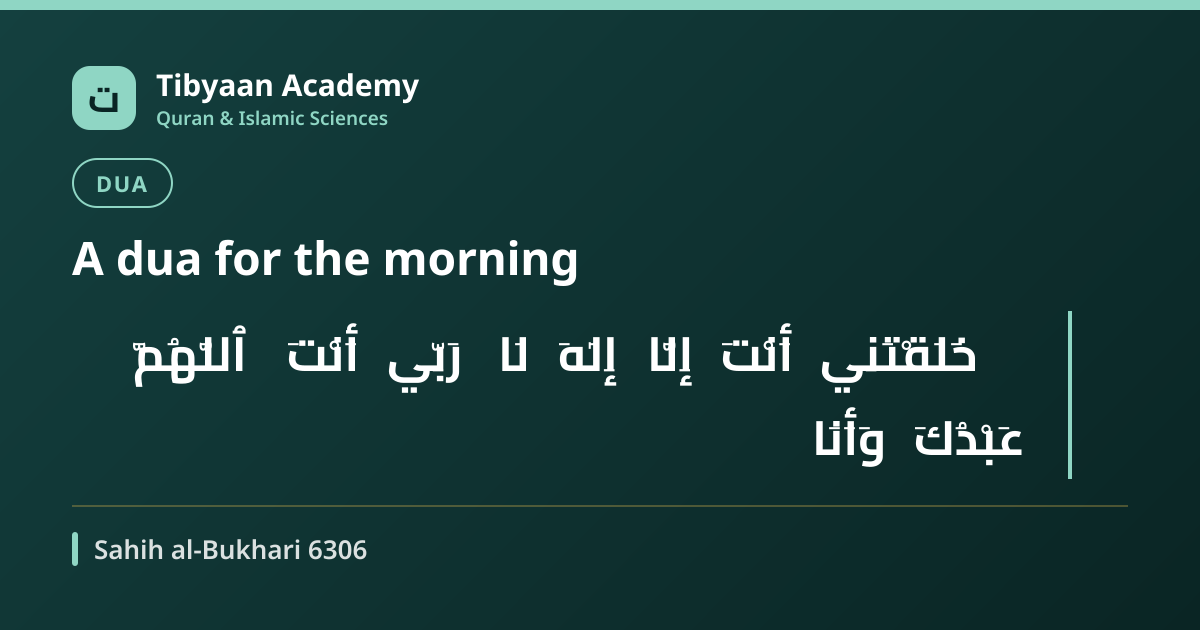
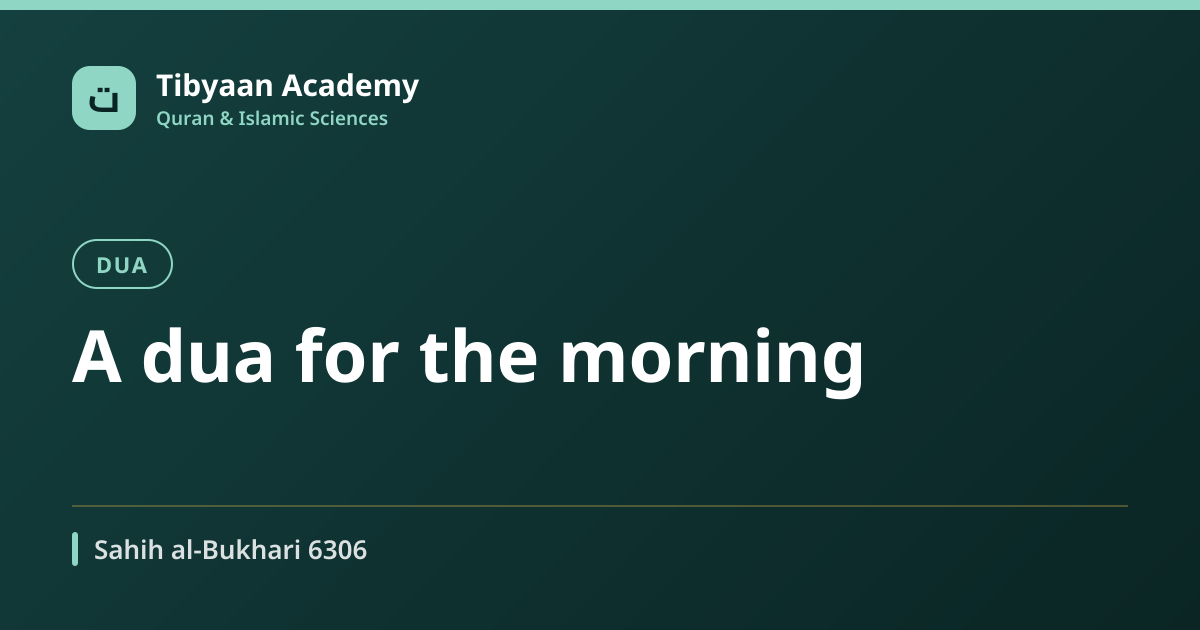
Phase 8: switch the Arabic path off behind a flag
POSTER_ARABIC_ENABLED, unset by default. The flag is applied inside
renderPoster and overrides its caller, so nothing can put Arabic on a
poster while the shaping is known to be wrong — a caller passing text
is not enough.

The five category treatments, title, category and citation all ship;
they render correctly. Samples re-rendered with the flag off.

Rewrites the comment that caused this. It said Cairo "rendered" where
Noto Naskh and Amiri "failed", which a reader — including me — took as
evidence the Arabic was correct. It now states exactly what was tested
(those fonts throw and produce nothing; Cairo returns glyphs) and
exactly what was not (that the glyphs are right — they are not, and no
font choice fixes it, because satori has no shaping engine at all).

The sample script now prints "extracted" and "rendered" as separate
facts. Reporting only extraction is how a disabled feature gets mistaken
for a working one.

Claude-Session: https://claude.ai/code/session_01T6qQqKM8vPZa84vpzK2cLJ

diff --git a/src/lib/og/poster.tsx b/src/lib/og/poster.tsx
@@ -13,6 +13,19 @@ const GOLD = "#C9A84C";
 const FONT_DIR = path.join(process.cwd(), "src", "assets", "fonts");
 
 /**
+ * Arabic on posters is OFF.
+ *
+ * satori renders Arabic unjoined and with the words in reverse order, so an
+ * ayah would be published wrong. Correct shaping needs HarfBuzz, which is a
+ * separate piece of work; until that lands and has been checked by eye, the
+ * poster carries title, category and citation only.
+ *
+ * Set POSTER_ARABIC_ENABLED=true to turn it back on. Do not set it on
+ * production until the shaping has been verified against real ayat.
+ */
+const ARABIC_ENABLED = process.env.POSTER_ARABIC_ENABLED === "true";
+
+/**
  * One treatment per category. All five are the same poster - same layout,
  * same gold rule, same brand row - and differ only in the ground colour and
  * the accent, so a row of them reads as one family.
@@ -47,10 +60,19 @@ let cachedFonts: Array<{
  * Latin and Arabic faces are both loaded explicitly — satori has no system
  * fonts, so an unlisted script renders as empty boxes. Read once per lambda.
  *
- * Cairo is the Arabic face because satori cannot shape most Naskh fonts:
- * Noto Naskh Arabic, Noto Sans Arabic, Amiri and Scheherazade all fail with
- * "lookupType: 5 - substFormat: 3 is not yet supported". Cairo and Tajawal
- * were the two that rendered. Verify any replacement before swapping it in.
+ * WHAT WAS ACTUALLY TESTED, and what was not:
+ *
+ * Tested: Noto Naskh Arabic, Noto Sans Arabic, Amiri and Scheherazade throw
+ * "lookupType: 5 - substFormat: 3 is not yet supported" under satori and
+ * produce nothing. Cairo and Tajawal return glyphs instead of empty boxes.
+ *
+ * NOT tested, and NOT true: that those glyphs are correct. They are not.
+ * satori has no complex-script shaping, so Arabic comes out unjoined and in
+ * reversed word order whatever font is supplied - this is not a font problem
+ * and no font choice fixes it. Proven by rendering samples and reading them:
+ * see docs/poster-samples/ and POSTER_ARABIC_ENABLED below.
+ *
+ * "It rendered" is not "it is correct". Do not read one as the other.
  */
 async function loadFonts() {
   if (cachedFonts) return cachedFonts;
@@ -110,7 +132,10 @@ function arabicSize(text: string): number {
 export async function renderPoster({ title, category, citation, arabic, categoryKey }: PosterInput) {
   const fonts = await loadFonts();
   const t = treatmentFor(categoryKey ?? category);
-  const hasArabic = !!arabic;
+  // The flag wins over the caller: nothing can put Arabic on a poster while
+  // the shaping is known to be wrong.
+  const safeArabic = ARABIC_ENABLED ? arabic : null;
+  const hasArabic = !!safeArabic;
 
   return new ImageResponse(
     (
@@ -123,7 +148,9 @@ export async function renderPoster({ title, category, citation, arabic, category
           justifyContent: "space-between",
           padding: "64px 72px",
           background: `linear-gradient(135deg, ${t.from} 0%, ${t.to} 100%)`,
-          // Both faces listed so a mixed Arabic/English title renders fully.
+          // Both faces listed so a title containing Arabic produces glyphs
+          // rather than empty boxes. Note that Arabic in a TITLE is subject to
+          // the same shaping fault described above; titles are English today.
           fontFamily: "Noto Sans, Cairo",
         }}
       >
@@ -203,7 +230,7 @@ export async function renderPoster({ title, category, citation, arabic, category
           {/* The Arabic block, when the dars carries one. Rendered whole or
               not at all - extractArabicBlock() returns null rather than a
               shortened text, so nothing here can cut an ayah. */}
-          {arabic ? (
+          {safeArabic ? (
             <div
               style={{
                 display: "flex",
@@ -217,14 +244,14 @@ export async function renderPoster({ title, category, citation, arabic, category
                 style={{
                   color: "#FFFFFF",
                   fontFamily: "Cairo",
-                  fontSize: arabicSize(arabic),
+                  fontSize: arabicSize(safeArabic),
                   fontWeight: 700,
                   lineHeight: 1.75,
                   textAlign: "right",
                   display: "flex",
                 }}
               >
-                {arabic}
+                {safeArabic}
               </span>
             </div>
           ) : null}
